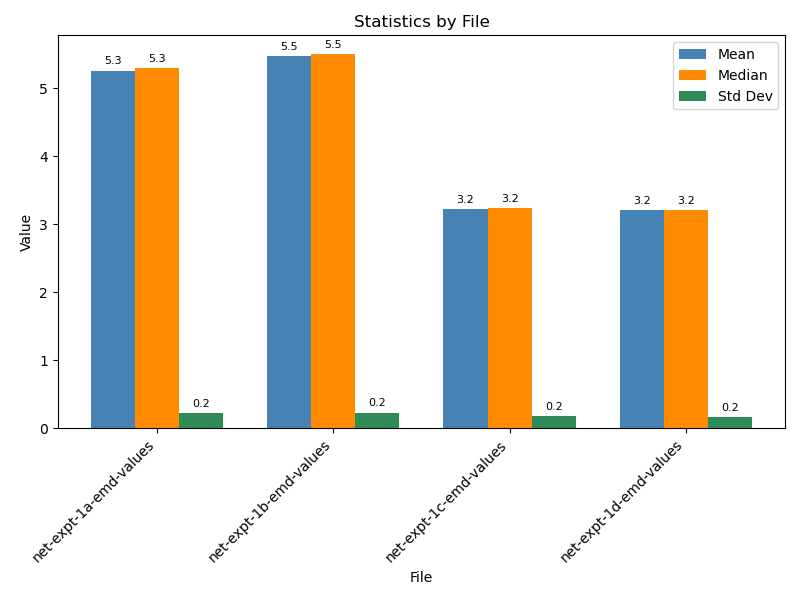
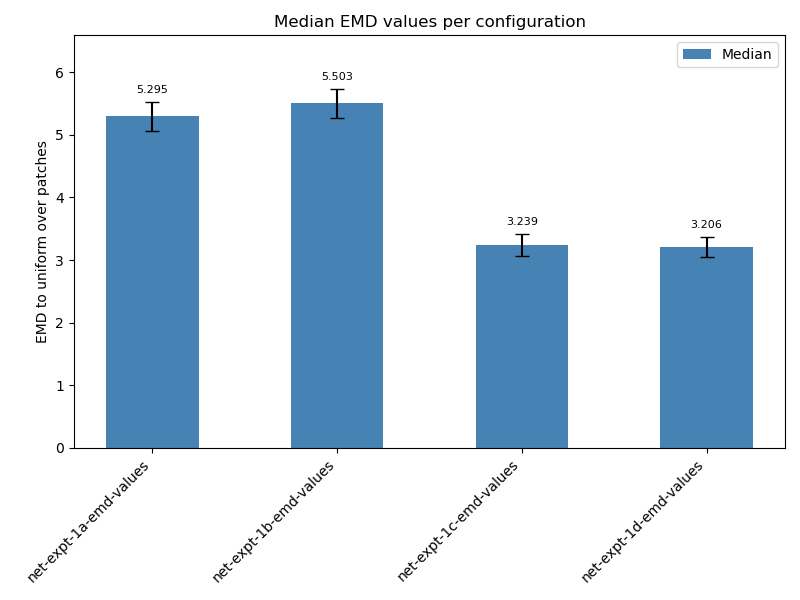
Update experiment log with new stats.py flags and regenerated histogram

diff --git a/output-keep/net-expts/EXPTLOG.md b/output-keep/net-expts/EXPTLOG.md
@@ -26,5 +26,5 @@ for E in 1a 1b 1c 1d; do for F in `ls net-expt-$E-run-info*.txt`; do tail -1 $F 
 Now calculate the mean, median and std dev of each config, and calculate whether the differences are significant:
 
 ```
-../../tools/stats.py net-expt-1*-emd-values.txt
+../../tools/stats.py -g --ylabel 'EMD to uniform over patches' --title 'Median EMD values per configuration' net-expt-1*-emd-values.txt
 ```
